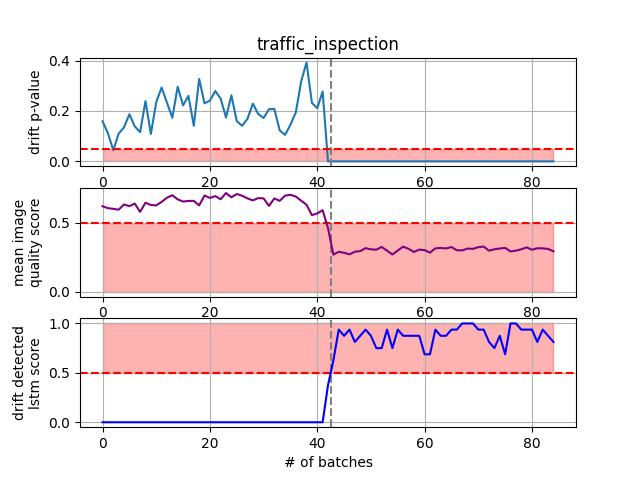
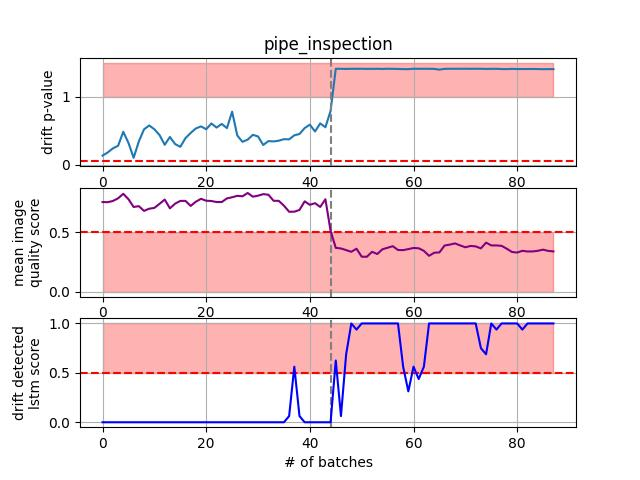
using distance instead of p-value

diff --git a/main.py b/main.py
@@ -18,7 +18,7 @@ import logging
 import numpy as np
 from torchvision.models import resnet18
 from sklearn.metrics import precision_score, recall_score, f1_score
-
+import sys
 from models_hub import ResNet, ARNIQA, LSTM_drift, Net, ResNet18
 import csv
 import matplotlib.pyplot as plt
@@ -33,8 +33,6 @@ logging.basicConfig(
     filemode='w', 
     format='%(levelname)s:%(message)s',
     level=logging.INFO)
-
-torch.manual_seed(0)
 
 device = torch.device("cuda") if torch.cuda.is_available() else "cpu"
 
@@ -69,7 +67,7 @@ def init_dataloaders(dataset="kadid10k", batch_size=32):
 
         # Split dataset
         train_paths, test_paths = train_test_split(
-            image_paths, test_size=0.4, random_state=42, shuffle=True)
+            image_paths, test_size=0.5, random_state=42, shuffle=True)
         
         test_paths = sorted(test_paths, key=lambda x: x[::-1])
 
@@ -87,14 +85,13 @@ def init_dataloaders(dataset="kadid10k", batch_size=32):
         
 
         # Split dataset
-        train_paths, test_paths = train_test_split(
-            image_paths, test_size=0.25, random_state=42, shuffle=False)
+        dd_paths, test_paths = train_test_split(
+            image_paths, test_size=0.85, random_state=42, shuffle=False)
 
-        _, dd_paths = train_test_split(
-            train_paths, test_size=0.5, random_state=42, shuffle=True)
+        _, dd_paths = train_test_split(dd_paths, test_size=batch_size*2, random_state=42, shuffle=True)
     
 
-        train_dataset = VideoFootage(train_paths, distort="rand")
+        train_dataset = VideoFootage(dd_paths, distort="rand")
         test_dataset = VideoFootage(test_paths, distort="last")
         drift_dataset = VideoFootage(dd_paths)
         print(train_dataset.__len__())
@@ -124,47 +121,12 @@ def load_arniqa_model(regr_dt: str = "kadid10k"):
     return model.eval().to(device)
 
 def load_drd(ddetector_dts: DataLoader, 
-             train_dts: DataLoader,
              dd_type:  str = "mmd", 
-             feat_ext_slice: int = 3,
-             num_epochs: int = 30,
-             emb_dim: int = 10):
+             feat_ext_slice: int = 0):
 
-    model_type = "simple"
-    # model = enc.to(device).eval()
 
     ddetect = drift_detector(detector=dd_type)
-    model = ARNIQA().encoder
-    # if not os.path.exists("drd_{}.pth".format(model_type)):
-    #     model = ResNet18(head_dim=emb_dim).to(device)
-
-    #     torch.save(model.state_dict(), "drd_{}.pth".format(model_type))
-    #     criterion = nn.CrossEntropyLoss()
-    #     optimizer = optim.SGD(model.parameters(), lr=0.001)
-    #     for _ in tqdm(range(num_epochs), desc="Epoch", position=0):
-    #         model.train()
-    #         running_loss = 0.0
-    #         for bimages, labels in tqdm(train_dts,desc="#b",position=1,leave=False):
-
-    #             outputs = model(bimages.to(device))
-    #             # labels = torch.nn.functional.one_hot(labels, emb_dim)
-    #             loss = criterion(outputs.to(device), labels.long().to(device))
-    #             loss.backward()
-    #             optimizer.step()
-    #             running_loss += loss.item()
-    #             #print(torch.sum(outputs.argmax(dim=1).to(device)==labels.to(device))/bimages.shape[0])
-
-    #         logger.info(f"Loss: {running_loss/len(train_dts):.4f}")
-    #         # print(outputs, labels)
-    #         torch.save(model.state_dict(), "drd_{}.pth".format(model_type))
-
-    # else:
-    #     logger.info("load from dir")
-    #     model = ResNet18(head_dim=emb_dim)
-    #     model.load_state_dict(
-    #         torch.load("drd_{}.pth".format(model_type))
-    #         )
-    model = model.to(device)
+    model = ARNIQA().encoder.to(device)
     
     if feat_ext_slice!=0:
         feat_ext = torch.nn.Sequential(
@@ -177,13 +139,18 @@ def load_drd(ddetector_dts: DataLoader,
     for param in feat_ext.parameters():
         param.requires_grad = False
 
+    x_ref = []
     for bim, _ in tqdm(ddetector_dts, desc="Drift fit"):
-        bim =  T.FiveCrop(size=360)(bim)
-        bim  = torch.cat(bim, dim=0)
+        # bim =  T.FiveCrop(size=bim.shape[-1]//2)(bim)
+        # bim  = torch.cat(bim, dim=0)
         bim = bim[torch.randperm(bim.shape[0])]
         inp = feat_ext(bim.to(device))
         inp = inp.reshape(bim.shape[0], -1)
-        ddetect.fit(inp)
+        
+        x_ref.append(inp)
+
+    x_ref = torch.cat(x_ref, dim=0)
+    ddetect.fit(x_ref)
 
     return feat_ext, ddetect
 
@@ -234,26 +201,29 @@ def compute_quality_score(model, img):
     return score
 
 if __name__ == "__main__":
+    help_string = '''usage python3 main.py 
+    [pipe_inspection, traffic_inspection, factory_inspection, assembly_line_extreme_inspection, assembly_line_inspection, kadid10k] 
+    [batch_size]
+    [seed]'''
+
+    dataset=sys.argv[1]
+    global_batch_size = int(sys.argv[2])
+    torch.manual_seed(sys.argv[3])
+
+    assert dataset in [
+        "traffic_inspection",
+        "pipe_inspection", 
+        "factory_inspection", 
+        "assembly_line_extreme_inspection", 
+        "assembly_line_inspection", 
+        "kadid10k"] and len(sys.argv)==4, help_string
     
-    dataset="traffic_inspection"
-    # dataset="pipe_inspection"
-    # dataset="factory_inspection"
-    # dataset="assembly_line_extreme_inspection"
-    # dataset="assembly_line_inspection"
-    # dataset="kadid10k"
-    global_batch_size = 16
     train, test, ddet = init_dataloaders(
         dataset=dataset, batch_size=global_batch_size)
 
     model_arniqa = load_arniqa_model().to(device)
 
-    model_drd, ddetect = load_drd(
-        ddetector_dts=ddet,
-        train_dts=train,
-        feat_ext_slice=0, 
-        num_epochs=10,
-        emb_dim=3
-    )
+    model_drd, ddetect = load_drd(ddetector_dts=ddet, feat_ext_slice=0)
      
     # ONLY TRAINING FOR THE MOMENT (TRAINING NEEDS CHANGES TOO)
     model_lstm = load_lstm_drift(train_dts=train)
@@ -270,7 +240,6 @@ if __name__ == "__main__":
     poor_quality_pred = []
     poor_quality_tar = []
 
-
     lstm_drift_pred = []
     lstm_drift_tar = []
 
@@ -284,15 +253,12 @@ if __name__ == "__main__":
             arniqa_outputs = compute_quality_score(
                 model_arniqa, bimages.to(device),
                 )
-            bim = T.FiveCrop(size=360)(bimages)
-            bim  = torch.cat(bim, dim=0)
-            bim = bim[torch.randperm(bim.shape[0])]
-            dd_in = model_drd(bim.to(device))
-            dd_in = dd_in.reshape(bim.shape[0], -1)
-            pv = ddetect.forward(dd_in).item()
-            if pv>0:
-                print("NO drift detected:",pv)
-                # input()
+            # bim = T.FiveCrop(size=bimages.shape[-1]//2)(bimages)
+            # bim  = torch.cat(bim, dim=0)
+            # bim = bim[torch.randperm(bim.shape[0])]
+            dd_in = model_drd(bimages.to(device))
+            dd_in = dd_in.reshape(bimages.shape[0], -1)
+            pv = ddetect.forward(dd_in)
  
             meaniq = arniqa_outputs.mean().item()
             lstm_labels = torch.where(labels>1, 1, 0)
@@ -306,15 +272,15 @@ if __name__ == "__main__":
             all_lstm_mean_values.append(lstm_mean.item())
 
             logger.info("---------")
-            logger.info(("drift p-val:",pv))
+            logger.info(("drift:",pv))
             logger.info(("mean_iq:", meaniq))
             logger.info(("lstm_mean:", lstm_mean.item()))
 
             # CALCULATE STATISTICS FOR DRIFT
-            if pv>0.05:
-                drift_pred.append(0)
-            else:
+            if pv>1:
                 drift_pred.append(1)
+            else:
+                drift_pred.append(0)
 
             ideal_labels = torch.tensor([1]*bimages.shape[0])
 
@@ -329,9 +295,9 @@ if __name__ == "__main__":
             else:
                 lstm_drift_pred.append(0)
 
-            lstm_labels_argmax = torch.argmax(lstm_labels, dim=1)
-            lstm_labels_01 = torch.where(labels>1, 1, 0)
-            if torch.eq(lstm_labels_argmax,lstm_labels_01).sum() > bimages.shape[0]//2:
+            # lstm_labels_argmax = torch.argmax(lstm_labels, dim=1)
+            # lstm_labels_01 = torch.where(labels>1, 1, 0)
+            if torch.eq(ideal_labels,labels).sum() < bimages.shape[0]//2:
                 lstm_drift_tar.append(1)
             else:
                 lstm_drift_tar.append(0)
@@ -373,7 +339,7 @@ plt.plot(all_drift_p_values)
 plt.axvline(len(test)/2, linestyle="--", color="grey")
 plt.axhline(0.05, linestyle="--", color="red")
 x  = [ i for i, _ in enumerate(all_drift_p_values)]
-plt.fill_between(x, 0, 0.05, alpha=0.3, color="red")
+plt.fill_between(x, 1, 1.5, alpha=0.3, color="red")
 plt.ylabel("drift p-value")
 plt.grid()
 
@@ -397,77 +363,3 @@ plt.xlabel("# of batches")
 plt.grid()
 
 plt.savefig("current_results.jpg")
-
-# with open('drifts.csv', 'w', newline='') as csvfile:
-#     drift_values = csv.writer(csvfile, delimiter=' ',
-#                             quotechar='|', quoting=csv.QUOTE_MINIMAL)
-#     for res, step in zip(all_drift_p_values, im_passed):
-#         drift_values.writerow([step, res])
-
-# with open('iqs.csv', 'w', newline='') as csvfile:
-#     iqa_values = csv.writer(csvfile, delimiter=' ',
-#                             quotechar='|', quoting=csv.QUOTE_MINIMAL)
-#     for res, step in zip(all_iqscore_values, im_passed):
-#         iqa_values.writerow([step, res])
-
-# with open('class_choice.csv', 'w', newline='') as csvfile:
-#     class_ans = csv.writer(csvfile,
-#                             quotechar='|', quoting=csv.QUOTE_MINIMAL)
-#     for cl in class_answers:
-#         class_ans.writerow([cl])
-
-# def load_drd(train_dts: DataLoader, 
-#     ddetector_dts: DataLoader,
-#     model_type: str = "resnet50",  
-#     num_epochs: int = 100, 
-#     detector: str = "mmd", 
-#     dataset: str = "kadid10k", 
-#     feat_ext_slice: int = -2,
-#     emb_dim: int = 128,
-#     dd_type: str = "mmd"):
-
-#     if not os.path.exists("drd_{}_{}.pth".format(model_type, dataset)):
-#         model = ResNet(
-#             embedding_dim=emb_dim, model=model_type, use_norm=False).to(device)
-#         ddetect = drift_detector(detector=detector)
-#         criterion = nn.CrossEntropyLoss()
-#         optimizer = optim.Adam(model.parameters(), lr=0.001)
-#         for _ in tqdm(range(num_epochs), desc="Epoch", position=0):
-#             model.train()
-#             running_loss = 0.0
-#             for _, images, labels in tqdm(train_dts,desc="#b",position=1,leave=False):
-#                 optimizer.zero_grad()
-#                 _, outputs = model(images.to(device))
-#                 loss = criterion(outputs.to(device), labels.to(device))
-#                 loss.backward()
-#                 optimizer.step()
-#                 running_loss += loss.item()
-#             logger.info(f"Loss: {running_loss/len(train_dts):.4f}")
-
-#         torch.save(model.state_dict(), "drd_{}_{}.pth".format(model_type, dataset))
-
-#     else:
-#         logger.info("load from dir")
-#         model = ResNet(
-#             embedding_dim=emb_dim, model=model_type, 
-#             use_norm=False).to(device)
-#         model.load_state_dict(
-#             torch.load("drd_{}_{}.pth".format(model_type, dataset))
-#             )
-#         model = model.to(device)
-
-#     ddetect = drift_detector(detector=dd_type)
-
-#     if feat_ext_slice!=0:
-#         feat_ext = torch.nn.Sequential(
-#             *(list(model.model.children())[:feat_ext_slice])).eval().to(device)
-
-#     else:
-#         feat_ext = torch.nn.Sequential(
-#             *(list(model.model.children())[:])).eval().to(device)
-        
-#     for _, im, _ in tqdm(ddetector_dts, desc="Drift fit"):  
-#         inp = feat_ext(im.to(device)).reshape(im.shape[0], -1)
-#         ddetect.fit(inp)
-
-#     return feat_ext, ddetect

diff --git a/drift_detector.py b/drift_detector.py
@@ -1,17 +1,23 @@
 from torchdrift.detectors import KernelMMDDriftDetector, KSDriftDetector
 import torch
 import torch.nn as nn
+from alibi_detect.cd import MMDDrift
+from numpy import concatenate
+import torchvision.transforms.v2 as T
 
 class drift_detector(nn.Module):
     def __init__(self, detector="mmd") -> None:
         super(drift_detector, self).__init__()
-        if detector=="mmd":
-            self.detector = KernelMMDDriftDetector(return_p_value=True)
-        else:
-            self.detector = KSDriftDetector(return_p_value=True)
+        self.detector = None
+        # if detector=="mmd":
+        #     self.detector = KernelMMDDriftDetector(return_p_value=True)
+        # else:
+        #     self.detector = KSDriftDetector(return_p_value=True)
 
     def fit(self, inp):
-        self.detector.fit(inp)
+        self.detector = MMDDrift(inp.cpu().numpy(), backend="pytorch", device='cuda',)
+        return self.detector
 
     def forward(self, y_pred):
-        return self.detector.forward(y_pred)
+        print(self.detector.predict(y_pred.cpu().numpy())["data"])
+        return self.detector.predict(y_pred.cpu().numpy())["data"]["distance"]

diff --git a/dataloaders.py b/dataloaders.py
@@ -8,6 +8,7 @@ from os.path import exists, join
 from os import mkdir
 import torchvision.transforms.v2 as T
 import distortions as dstr_all
+import sys
 
 dstr = [
     'gaussian_blur', 'motion_blur', 'brighten', 'color_block', 'color_diffusion', 
@@ -23,7 +24,7 @@ dstr = [
 
 # distortion_labels = { i:d for i, d in enumerate(dstr,1)}
 # distortion_labels[0]=[0]
-np.random.seed(seed=1234)
+np.random.seed(seed=int(sys.argv[3]))
 
 distortion_transforms = { i:getattr(dstr_all, d) for i,d in enumerate(dstr)}
 
@@ -101,13 +102,8 @@ class kadid10k(Dataset):
             T.Normalize(mean=[0.485, 0.456, 0.406], std=[0.229, 0.224, 0.225]),
         ])
 
-        ds_preproc = T.Compose([
-            T.Resize((128,128)),
-        ])
-
         big_image = preproc(big_image)
-        small_image = ds_preproc(big_image)
         
         label = torch.tensor(label, dtype=torch.long)
 
-        return big_image, small_image, label
+        return big_image, label
